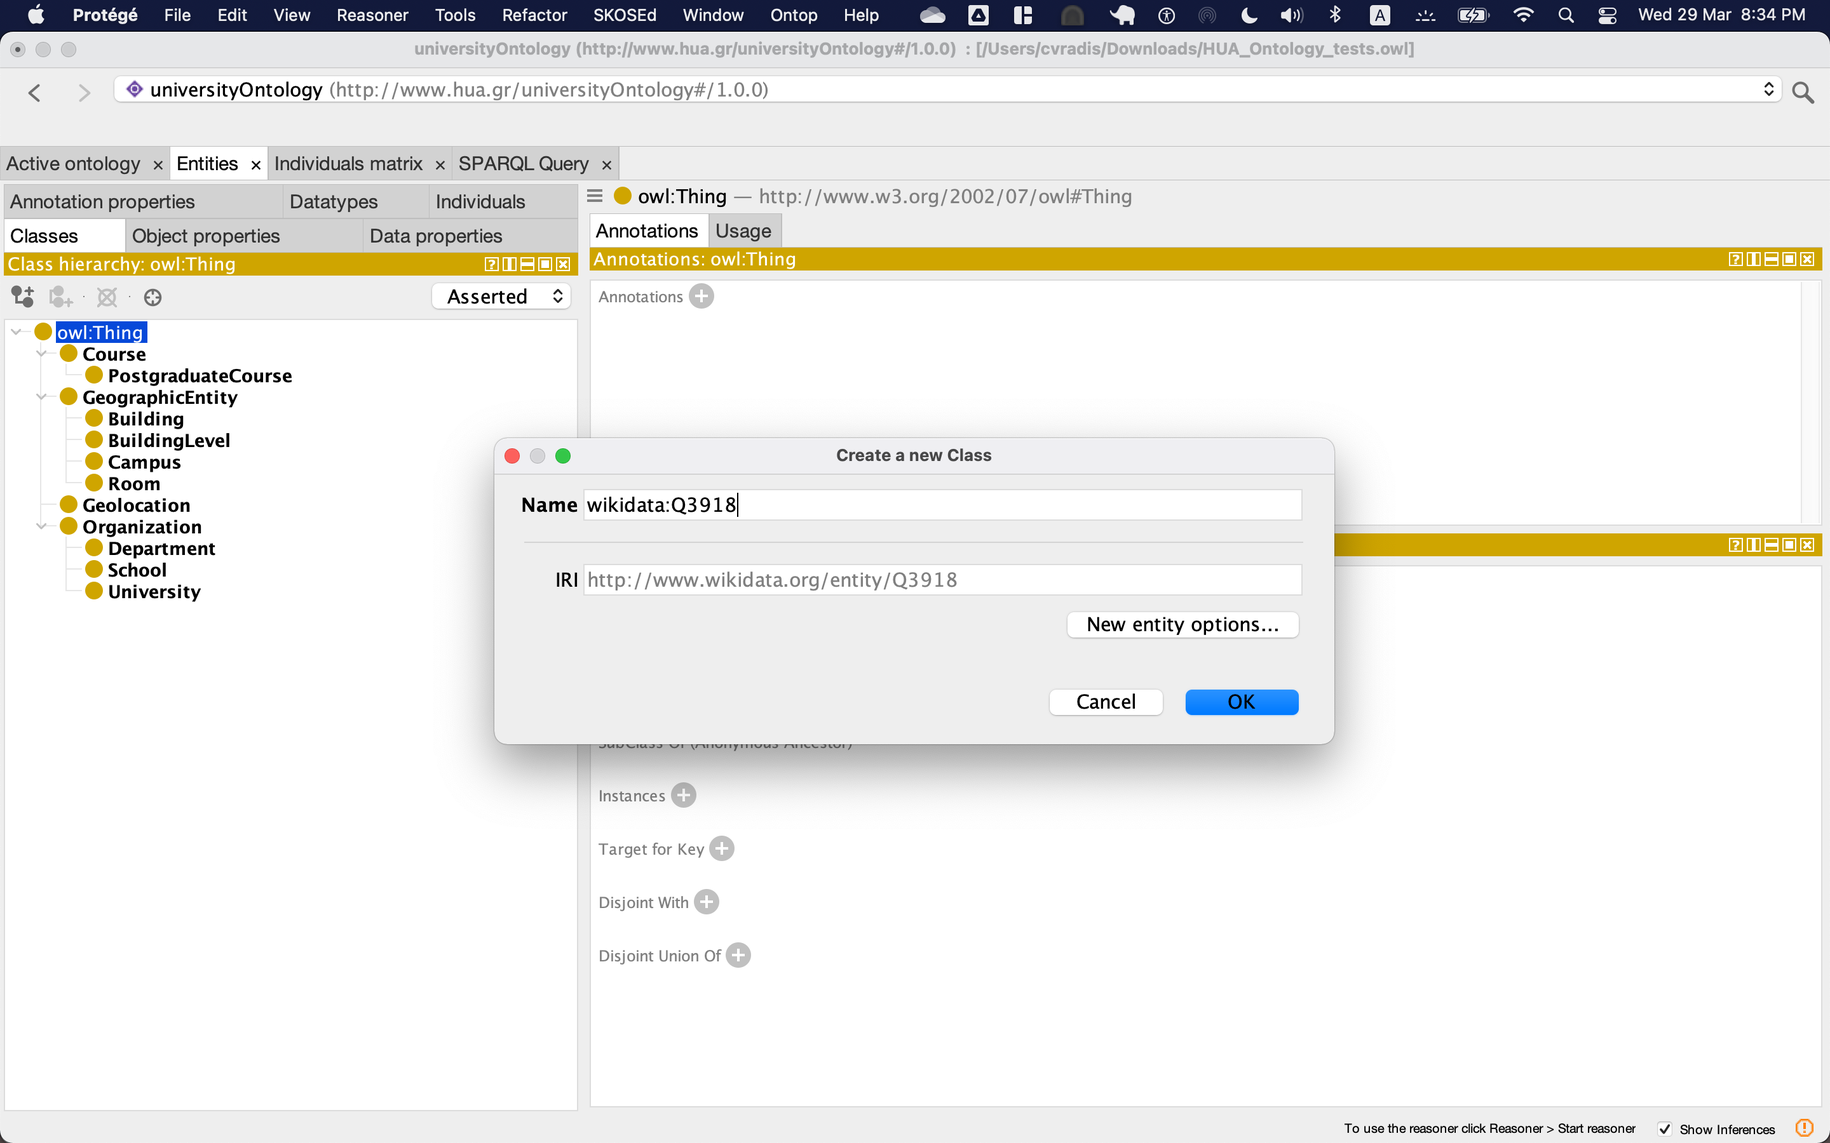
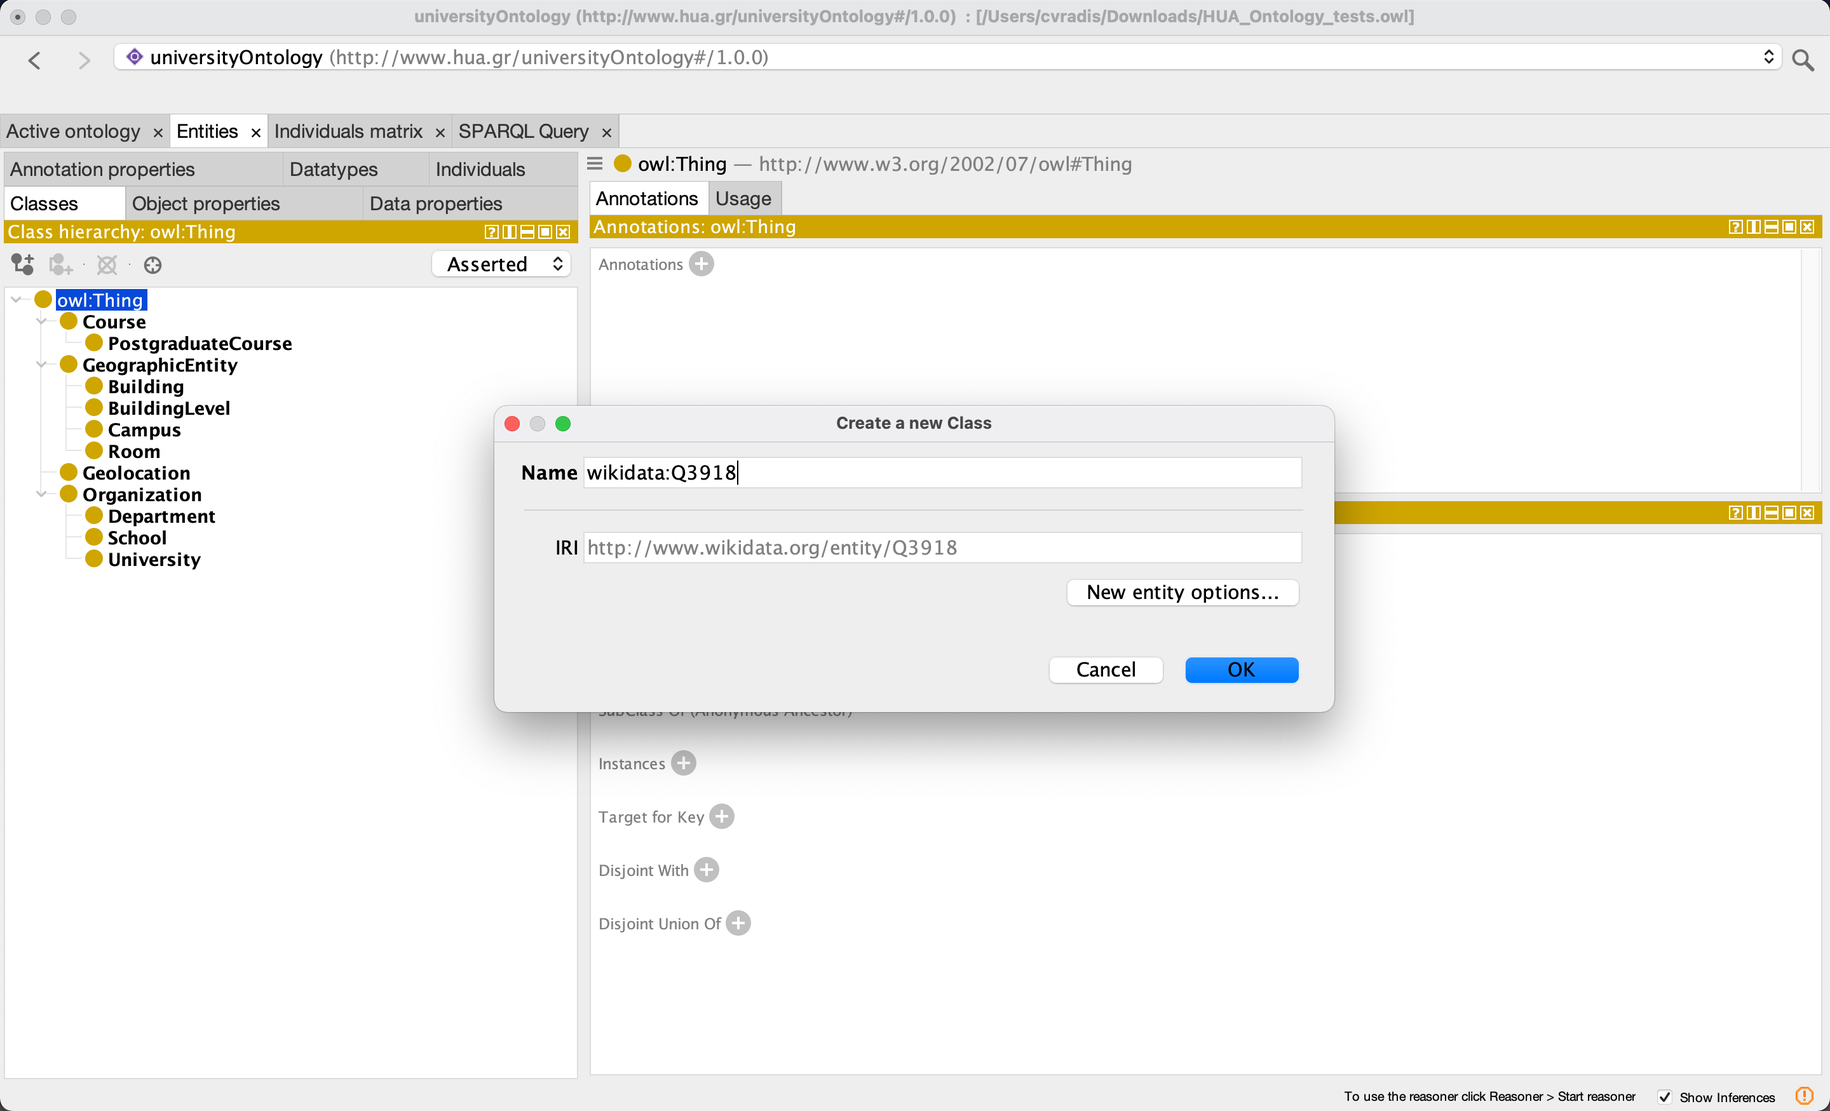
tutorial update, screenshots cropped

diff --git a/Tutorial/Tutorial.md b/Tutorial/Tutorial.md
@@ -1,7 +1,5 @@
 # Αναλυτικά βήματα σύνταξης οντολογίας με το λογισμικό Protégé
 
-## Το λογισμικό Protégé
-
 Το Protégé Desktop, ένα ελεύθερο λογισμικό/λογισμικό ανοικτού κώδικα (ΕΛ/ΛΑΚ), αποτελεί ίσως το πλέον διαδεδομένο και πλούσιο σε δυνατότητες περιβάλλον επεξεργασίας **οντολογιών** με πλήρη υποστήριξη της γλώσσας [OWL 2](https://www.w3.org/TR/owl2-overview/). Οι δυνατότητές του περιλαμβάνουν την υποστήριξη συλλογιστών (reasoners), οι οποίοι βασίζονται σε περιγραφικές λογικές (description logic) όπως π.χ. το HermiT και το Pellet. Το Protégé Desktop παρέχει τη δυνατότητα δημιουργίας και επεξεργασίας μιας ή περισσότερων οντολογιών σε έναν ενιαίο γραφικό περιβάλλον εργασίας, μέσω μιας πλήρως παραμετροποιήσιμης διεπαφής χρήστη. Ορισμένα από τα εργαλεία οπτικοποίησης που παρέχει επιτρέπουν τη διαδραστική πλοήγηση στις κλάσεις αλλά και στις σχέσεις των κλάσεων και των οντολογιών. Η υποστήριξη επεξηγήσεων (explanations) βοηθά στον εντοπισμό λογικών ασυνεπειών που μπορεί να υπάρχουν στην οντολογία. Άλλες διαθέσιμες λειτουργίες που παρέχει αφορούν την αναδιαμόρφωση της οντολογίας (refactoring), τη συγχώνευση οντολογιών (ontology merging), τη μετακίνηση αξιωμάτων μεταξύ οντολογιών, την ταυτόχρονη μετονομασία πολλαπλών οντοτήτων και πολλές άλλες <sup>([Πηγή](https://protege.stanford.edu/products.php#web-protege))</sup>. Ορισμένα από τα χαρακτηριστικά του Protégé περιλαμβάνουν:
 
 - Πλήρη συμβατότητα με πρότυπα του W3C που χρησιμοποιούνται στον Σημασιολογικό Ιστό (OWL, RDF κ.α.)
@@ -18,14 +16,12 @@
 - https://protegewiki.stanford.edu/wiki/ProtegeDesktopUserDocs
 - https://protegewiki.stanford.edu/wiki/Pr4_UG_mi_Outline
 
-## Εγκατάσταση του λογισμικού Protégé
+# Εγκατάσταση του λογισμικού Protégé
 Επισκεφθείτε τον ιστότοπο https://protege.stanford.edu/products.php#desktop-protege και κατεβάστε την πλέον τελευταία έκδοση ανάλογα το λειτουργικό σας σύστημα (Windows, macOS, Linux). Εναλλακτικά, μπορείτε να χρησιμοποιήσετε την διαδικτυακή έκδοση στον ιστότοπο http://webprotege.stanford.edu/, αλλά θα πρέπει να έχετε υπόψη ότι η έκδοση αυτή δεν υποστηρίζει όλες τις δυνατότητες που υποστηρίζει η dektop έκδοση. Ας σημειωθεί ότι προς το παρόν δεν διατίθεται κάποια native έκδοση για κινητές/έξυπνες συσκευές με λειτουργικά συστήματα iOS ή/και Android.
 
 Για τις βασικές έννοιες της γλώσσας OWL βλ. το [εισαγωγικό αρχείο](../README.md)
 
-# Βήματα για τη δημιουργία της οντολογίας
-
-## Η αρχική οθόνη του Protégé
+# Η αρχική οθόνη του Protégé
 
 Μετά την εγκατάσταση και την εκτέλεση του Protégé η αρχική οθόνη που εμφανίζεται είναι η παρακάτω:
 <img src="../images/Screenshot_1.png">
@@ -55,7 +51,7 @@
 
 Στη συνέχεια ακολουθούν περιγραφές του τρόπου με τον οποίο μπορούμε να εισάγουμε classes, object properties, data properties και individuals στο Protégé.
 
-## Προσθήκη κλάσεων (classes)
+# Προσθήκη κλάσεων (classes)
 
 <img src="../images/Screenshot_2.png">
 Η θέαση και προσθήκη κλάσεων γίνεται από την κύρια καρτέλα **"Entities"** και την υπο-καρτέλα **"Classes"**. Η κλάση που θα εμφανίζεται πάντα είναι η **`owl:Thing`** η οποία αποτελεί ουσιαστικά ένα σύνολο που περιέχει όλα τα πιθανά individuals της οντολογίας μας και αν την θεωρήσουμε ως έννοια, τότε αυτή αποτελεί την πλέον γενική έννοια: κάθε άλλη κλάση που θα δημιουργήσουμε θα είναι υποχρεωτικά υποκλάση της `owl:Thing`.
@@ -85,7 +81,7 @@
 
 Φυσικά αυτός είναι ένας από τους τρόπους δόμησης της οντολογίας, χωρίς να σημαίνει απαραίτητα ότι είναι και ο βέλτιστος τρόπος: αρκεί να ικανοποιεί τους αρχικούς μας στόχους, οι οποίοι περιλαμβάνουν την δημοσιοποίηση δομημένων δεδομένων στον Σημασιολογικό Ιστό.
 
-### Προσθήκη υποκλάσης (subclass)
+# Προσθήκη υποκλάσεων (subclasses)
 
 <img src="../images/Screenshot_3.png">
 <img src="../images/Screenshot_4.png">
@@ -97,7 +93,8 @@
 <img src="../images/Screenshot_7a.png">
 
 
-### Προσθήκη σχέσεων μεταξύ κλάσεων (Object Properties)
+# Προσθήκη σχέσεων μεταξύ κλάσεων (Object Properties)
+
 Το επόμενο λογικό βήμα για την ανάπτυξη της οντολογίας είναι ο καθορισμός των **σχέσεων** μεταξύ των κλάσεων. Στην ορολογία της OWL και του Protege, οι σχέσεις αυτές ονομάζονται **"Object Properties"** και σε αυτές έχουμε πρόσβαση από την ομώνυμη καρτέλα.
 
 Με την ίδια λογική όπως και με την προσθήκη κλάσεων, οι σχέσεις μπορεί να σχηματίζουν μια ιεραρχία: π.χ. μπορούμε να δημιουργήσουμε μια γενικού τύπου σχέση με τη ονομασία "hasPart" για να υποδηλώσουμε γενικές μερολογικές σχέσεις μεταξύ ορισμένων κλάσεων της οντολογίας μας. Η προσθήκη της σχέσης γίνεται με δεξί κλίκ στην βασική σχέση `owl:TopObjectProperty` (η οποία αποτελεί την βασική σχέση της οντολογίας, κάτω από την οποία θα προστεθούν όλες οι νέες σχέσεις):
@@ -141,7 +138,7 @@
 
 Για να δει κανείς τους περιορισμούς που έχουν οριστεί σε κάθε σχέση (Domain και Range) μπορεί να ανατρέξει στο αρχείο [HUA_Ontology.owl](HUA_Ontology.owl).
 
-### Προσθήκη σχέσεων προς τιμές (Data Properties)
+# Προσθήκη σχέσεων προς τιμές (Data Properties)
 
 Για την συσχέτιση κλάσεων όχι με κάποια άλλη κλάση αλλά με κάποια συγκεκριμένη τιμή (θα μπορούσε να είναι μια αριθμητική τιμή, μια αλφαριθμητική σειρά κ.α.) η γλώσσα OWL χρησιμοποιεί τις σχέσεις τύπου **"Data Properties"**, οι οποίες είναι προσβάσιμες από την αντίστοιχη καρτέλα.
 
@@ -155,7 +152,7 @@
 
 Για να δει κανείς τους περιορισμούς που έχουν οριστεί σε κάθε σχέση (Domain και Data type) μπορεί να ανατρέξει στο αρχείο [HUA_Ontology.owl](HUA_Ontology.owl).
 
-### Προσθήκη πραγματώσεων/περιπτώσεων (individuals)
+# Προσθήκη πραγματώσεων/περιπτώσεων (individuals)
 
 Ως ένα από τα τελευταία στάδια στην ανάπτυξη της οντολογίας αποτελεί η προσθήκη των αντικειμένων του πραγματικού κόσμου, τα οποία στην OWL ονομάζονται **"Individuals"**, προσβάσιμα από την ομώνυμη καρτέλα.
 
@@ -197,7 +194,12 @@
 
 <img src="../images/Screenshot_15.png">
 
-### Προσθήκη class και individual εξωτερικής προέλευσης
+Με την ολοκλήρωση της εισαγωγής των inviduals, η οντολογία θα φαίνεται όπως στο παρακάτω στιγμιότυπο:
+
+<img src="../images/Screenshot_16.png">
+
+# Προσθήκη class και individual εξωτερικής προέλευσης
+
 Προκειμένου να διασυνδέσουμε την οντολογία μας με δομημένα δεδομένα εξωτερικής προέλευσης, και άρα να θεωρηθούν ως Ανοκτά Διασυνδεδεμένα Δεδομένα 5 αστέρων (βλ. και το [εισαγωγικό κείμενο](../README.md)), θα αναζητήσουμε δεδομένα από το [Wikidata](https://www.wikidata.org/wiki/Wikidata:Main_Page), το οποίο αποτελεί μια ελεύθερη και ανοιχτή **γνωσιακή βάση δομημένων δεδομένων**, τα οποία μπορούν να αναγνωστούν και επεξεργαστούν τόσο από ανθρώπους όσο και από μηχανές.
 
 Με αναζήτηση ελεύθερου κειμένου στο Wikidata, μπορούμε να ανακαλύψουμε, μεταξύ πολλών άλλων, δύο εγγραφές που μας ενδιαφέρουν, οι οποίες θα χρησιμοποιηθούν ως παράδειγμα διασύνδεσης:
@@ -210,7 +212,7 @@
 - http://www.wikidata.org/entity/Q3918, για την έννοια University (Πανεπιστήμιο)
 - http://www.wikidata.org/entity/Q1067642, για την εγγραφή για το ίδιο το Χαροκόπειο Πανεπιστήμιο
 
-### Προσθήκη της κλάσης "Q3918" από το Wikidata (εγγραφή για την έννοια "University")
+# Προσθήκη της κλάσης "Q3918" από το Wikidata (εγγραφή για την έννοια "University")
 
 Για να εισάγουμε την έννοια του Πανεπιστημίου από το Wikidata, μεταβαίνουμε στην ενότητα "Classes" και με δεξί κλικ στην βασική κλάση `owl:Thing` προσθέτουμε την νέα, εξωτερική κλάση όπως στο σιγμιότυπο:
 
@@ -226,7 +228,7 @@
 
 <img src="../images/Screenshot_19.png">
 
-### Προσθήκη του individual "Q1067642" από το Wikidata (εγγραφή για το "Χαροκόπειο Πανεπιστήμιο")
+# Προσθήκη του individual "Q1067642" από το Wikidata (εγγραφή για το "Χαροκόπειο Πανεπιστήμιο")
 
 Με την ίδια λογική, μεταβαίνουμε στην ενότητα "Individuals" για να προσθέσουμε την εγγραφή της Wikidata για το Χαροκόπειο Πανεπιστημιο (Q1067642). Το νέο individual θα προστεθεί ως `wikidata:Q1067642` όπως στο στιγμιότυπο:
 
@@ -236,10 +238,12 @@
 
 <img src="../images/Screenshot_21.png">
 
-# Ενεργοποίηση του συλλογιστή (reasoner)
+# Ενεργοποίηση του συλλογιστή (reasoner) και παραγωγή συμπερασμών
 
 Για να ενεργοποιήσουμε τον συλλογιστή, από το κυρίως μενού επιλέγουμε Reasoner, και επιλέγουμε έναν από τους διαθέσιμους συλλογιστές (οι οποίοι υπάρχουν ήδη στο Protégé ως plugins. Στη συνέχεια, από το ίδιο μενού επιλέγουμε "Start Reasoner" Εφόσον δεν υπάρχει κάποια λογική ασυνέπεια στην οντολογία μας (για την οποία ενδέχεται να εμφανιστεί μήνυμα σφάλματος), μπορούμε να μεταβούμε στην ενότητα "Individuals" και να επιλέξουμε την εξωτερική εγγραφή της Wikidata για το Χαροκόπειο (`Q10676421`). Στο δεξί μέρος της οθόνης θα δούμε τα "συμπεράσματα" που έχει δημιουργήσει ο συλλογιστής για την εγγραφή αυτή: εφόσον θωερείται ταυτόσημη με το individual `HarokopioUniversity` θα ισχύουν οι ίδιες δηλώσεις.
 
 <img src="../images/Screenshot_22.png">
 
 Αν μεταβούμε και στις υπόλοιπες ενότητες (classes, object properties, data properties) μπορούμε να δούμε ποιά άλλα νέα συμπεράσματα έχουν προκύψει από το σύνολο των δηλώσεών μας.
+
+Στο σημείο αυτό ολοκληρώνεται το tutorial. Φυσικά, ο ενδιαφερόμενος/η αναγνώστης/τρια μπορεί να συνεχίσει και να προσθέσει και άλλες δηλώσεις στην οντολογία ακολουθώντας παρόμοια βήματα με αυτά που περιγράφηκαν παραπάνω.
